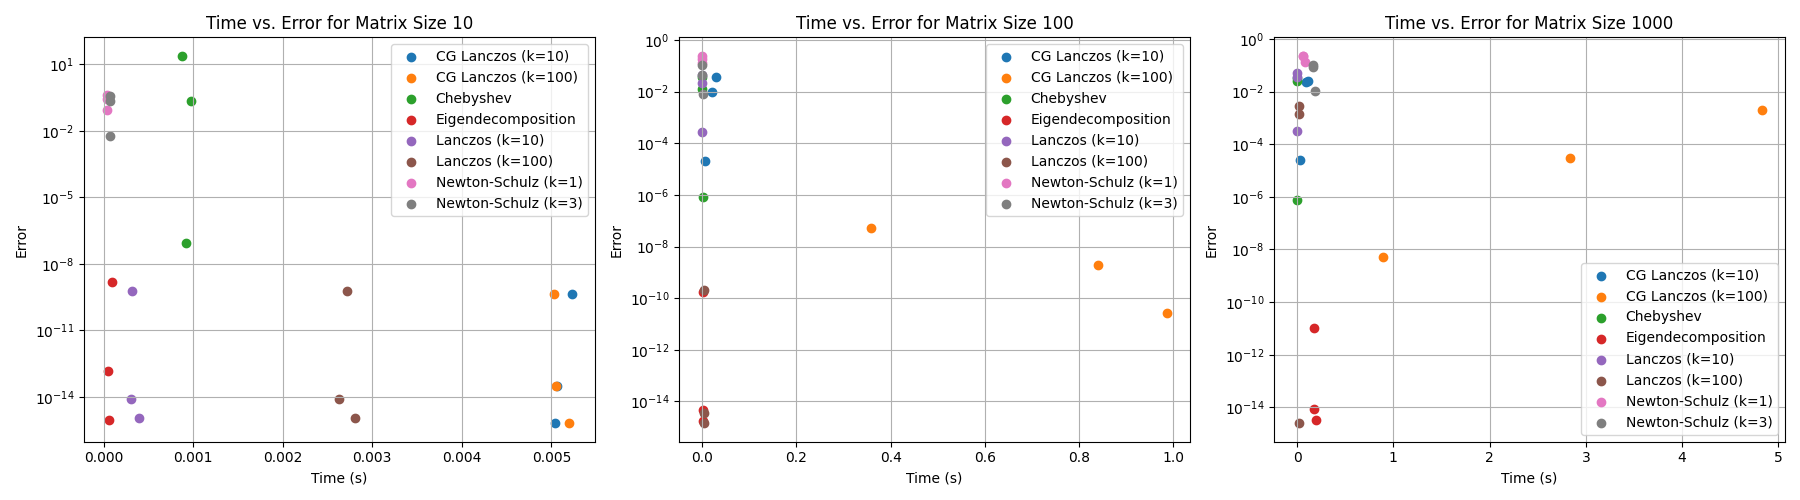
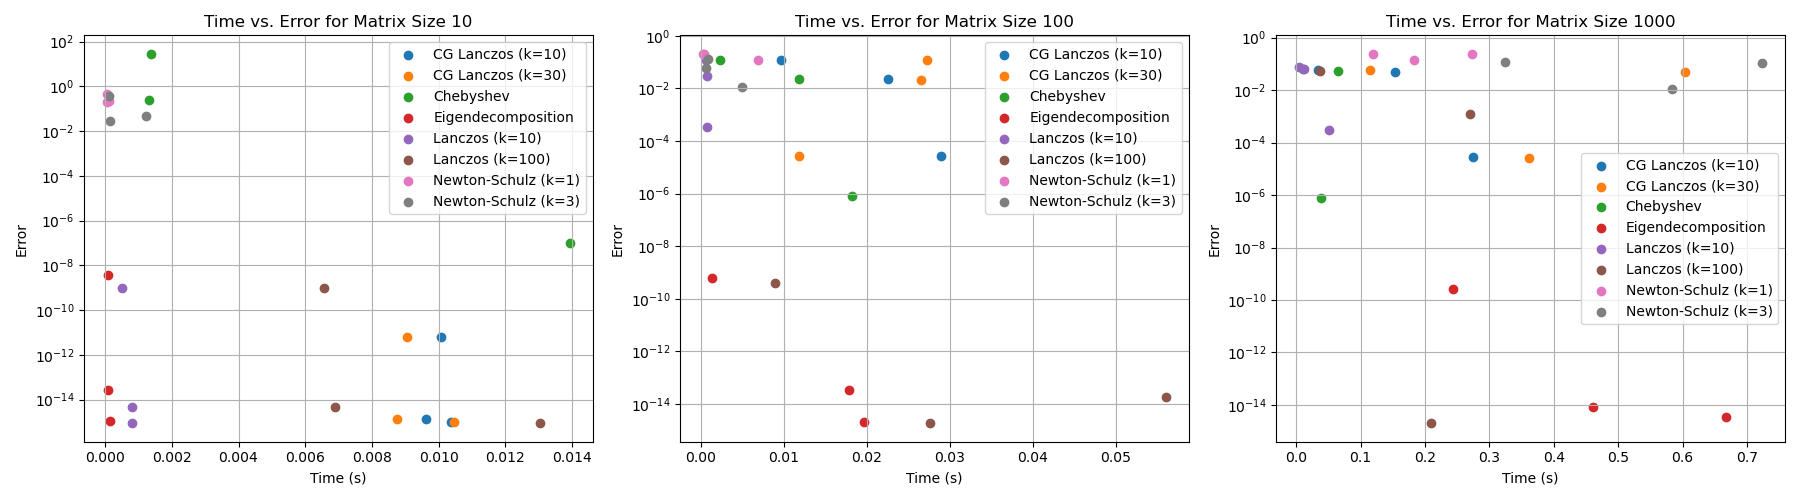
Add files via upload

diff --git a/run.py b/run.py
@@ -12,8 +12,8 @@ def main():
         Solver("Chebyshev", lambda A, b: chebyshev.solve_chebyshev(A, b), warm_start=False),
         Solver("Newton-Schulz (k=1)", lambda A, b: newton_schulz.solve_ns(A, b, max_iter=1), warm_start=False),
         Solver("Newton-Schulz (k=3)", lambda A, b: newton_schulz.solve_ns(A, b, max_iter=3), warm_start=False),
-        Solver("CG Lanczos (k=10)", lambda A, b: cg_lanczos.solve_cg_lanczos(A, b, lanczos_k=10), warm_start=False),
-        Solver("CG Lanczos (k=100)", lambda A, b: cg_lanczos.solve_cg_lanczos(A, b, lanczos_k=100), warm_start=False),
+        Solver("CG Lanczos (k=10)", lambda A, b: cg_lanczos.solve_cg_lanczos(A, b, max_iter=10), warm_start=False),
+        Solver("CG Lanczos (k=30)", lambda A, b: cg_lanczos.solve_cg_lanczos(A, b, max_iter=30), warm_start=False),
     ]
 
 
